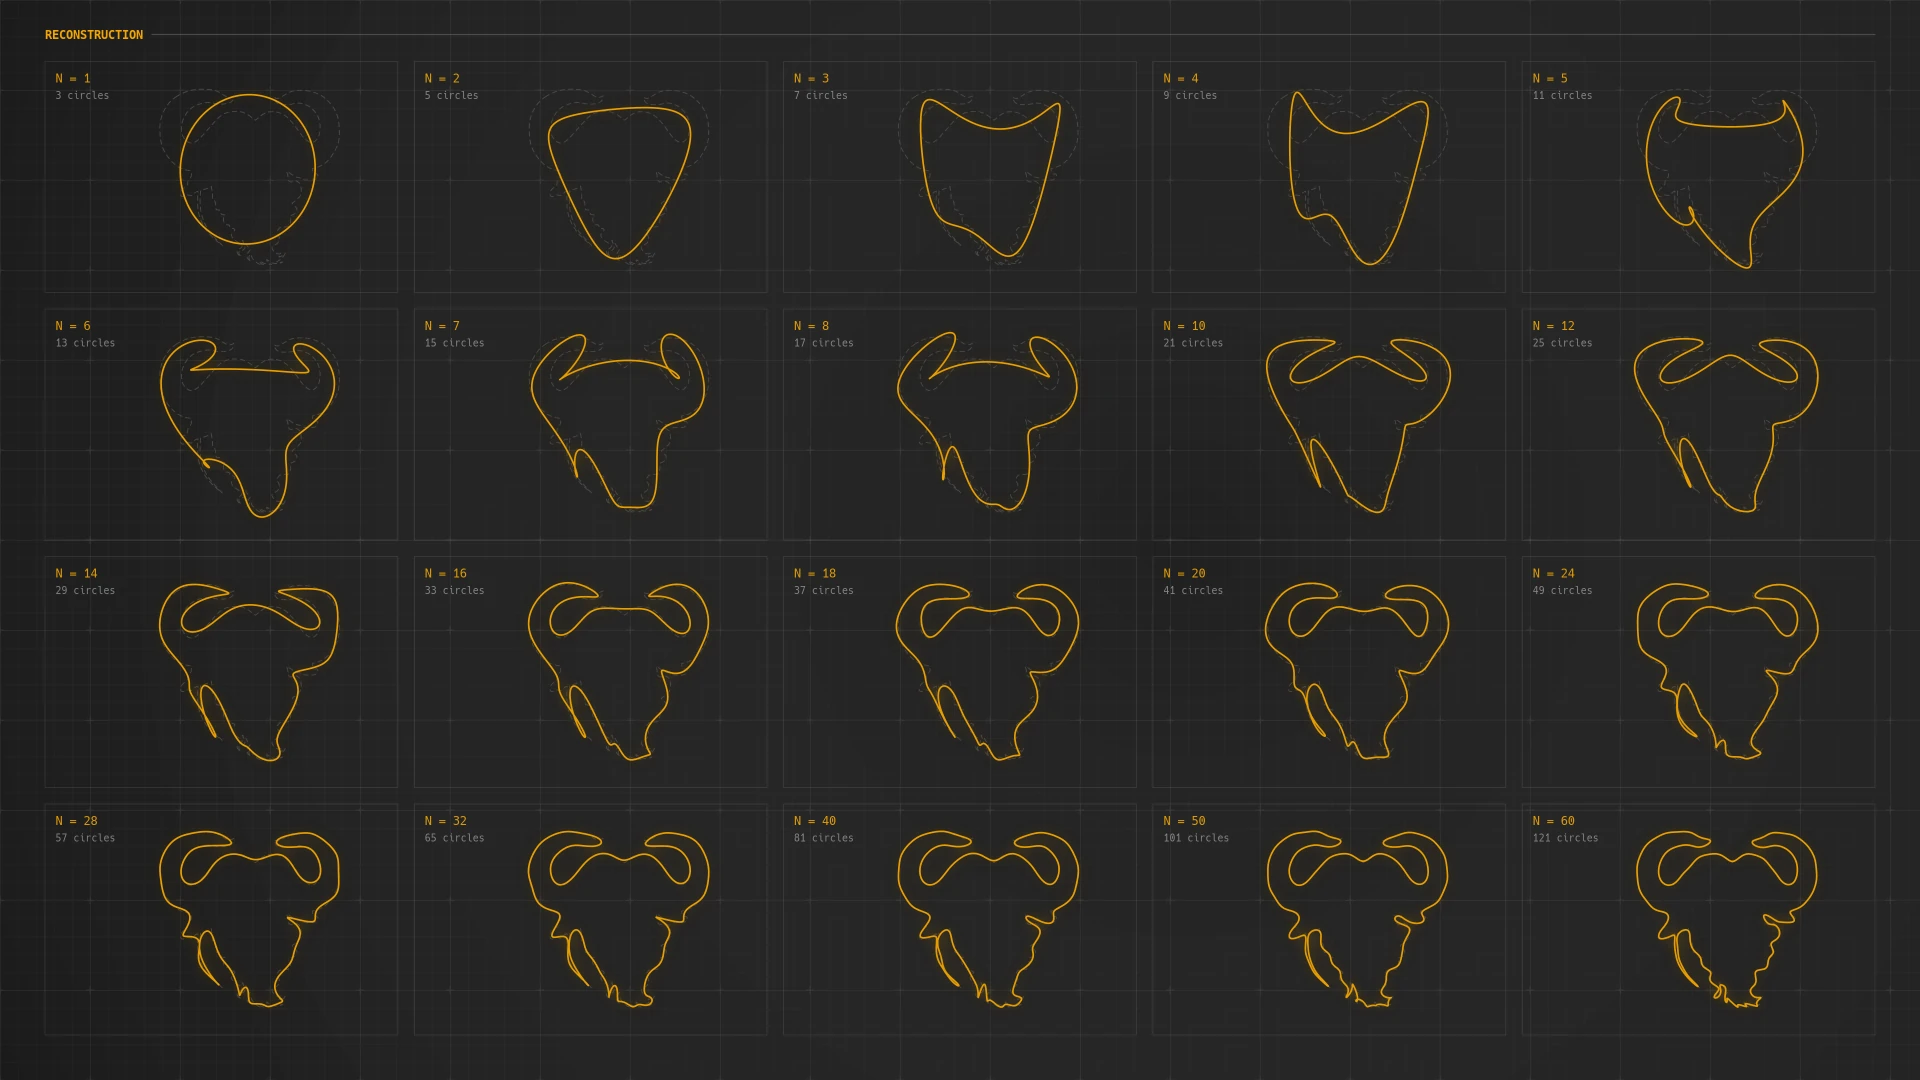
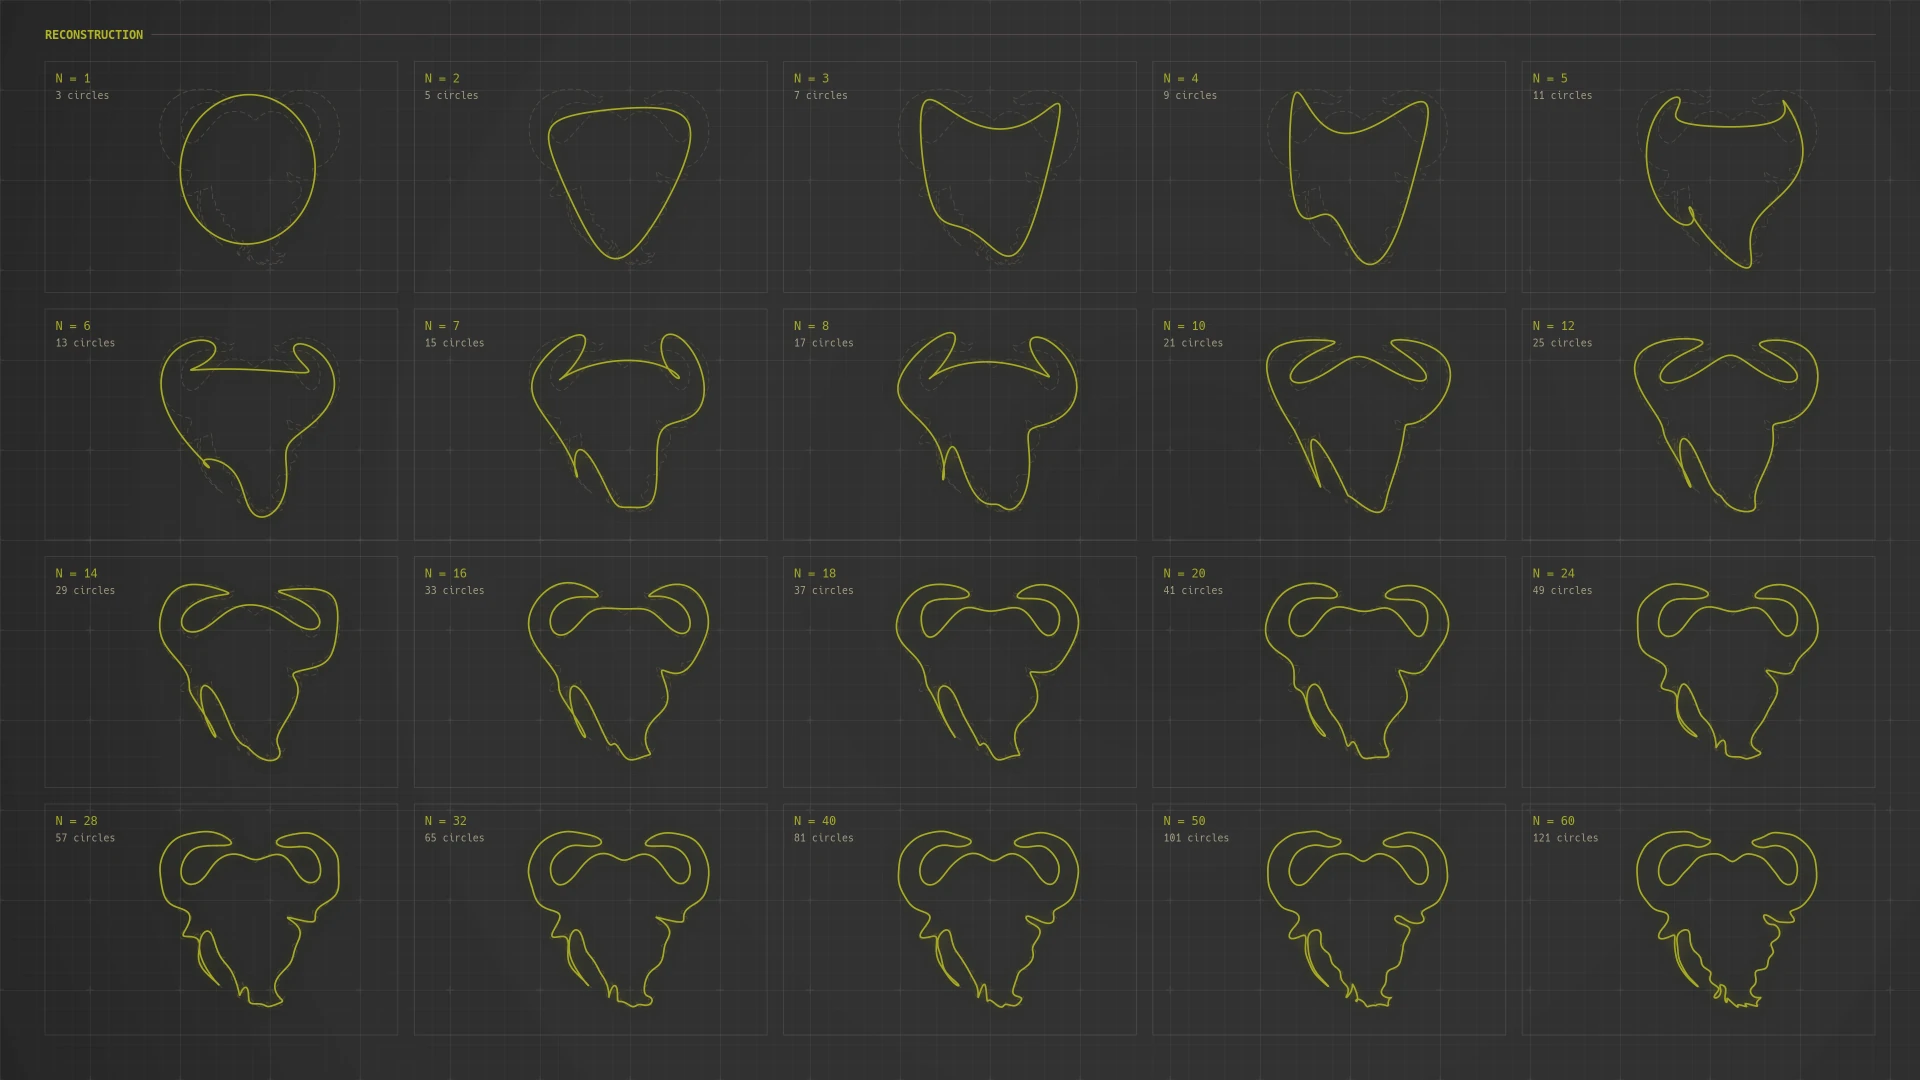
README previews: a palette of its own for each one

diff --git a/README.md b/README.md
@@ -15,19 +15,20 @@ Texts come from language files. English and Polish are included.
 | | |
 |---|---|
 | ![NixOS](docs/images/fourier-nixos-minimal-en_1920x1080.webp) | ![GNU](docs/images/fourier-gnu-reconstruction-grid-en_1920x1080.webp) |
-| NixOS, `minimal` layout: six parts, six chains of circles | GNU, `reconstruction-grid`: 20 reconstructions |
+| NixOS, `minimal` layout: six parts, six chains of circles; Nord colours | GNU, `reconstruction-grid`: 20 reconstructions; Gruvbox |
 
 <table>
 <tr>
-<td rowspan="2" width="34%"><img src="docs/images/fourier-gentoo-portrait-en_1080x1920.webp" alt="Gentoo"><br>Gentoo on a portrait monitor (1080×1920), with a layout of its own</td>
-<td><img src="docs/images/fourier-debian-row-en_1920x1080.webp" alt="Debian"><br>Debian, <code>row</code>: the reconstructions along the bottom</td>
+<td rowspan="2" width="34%"><img src="docs/images/fourier-gentoo-portrait-en_1080x1920.webp" alt="Gentoo"><br>Gentoo on a portrait monitor (1080×1920), with a layout of its own; Tokyo Night</td>
+<td><img src="docs/images/fourier-debian-row-en_1920x1080.webp" alt="Debian"><br>Debian, <code>row</code>: the reconstructions along the bottom; Dracula</td>
 </tr>
 <tr>
-<td><img src="docs/images/fourier-cachyos-en_3440x1440.webp" alt="CachyOS"><br>CachyOS on an ultrawide screen (3440×1440)</td>
+<td><img src="docs/images/fourier-cachyos-en_3440x1440.webp" alt="CachyOS"><br>CachyOS on an ultrawide screen (3440×1440); Catppuccin Mocha</td>
 </tr>
 </table>
 
-These previews are made by `python3 fourier.py github-examples` (`recipes/github-examples.toml`).
+Colours are set in `[colors]` (Tux: the default palette). These previews are made by
+`python3 fourier.py github-examples` (`recipes/github-examples.toml`, with the palettes).
 
 ## Installation
 
